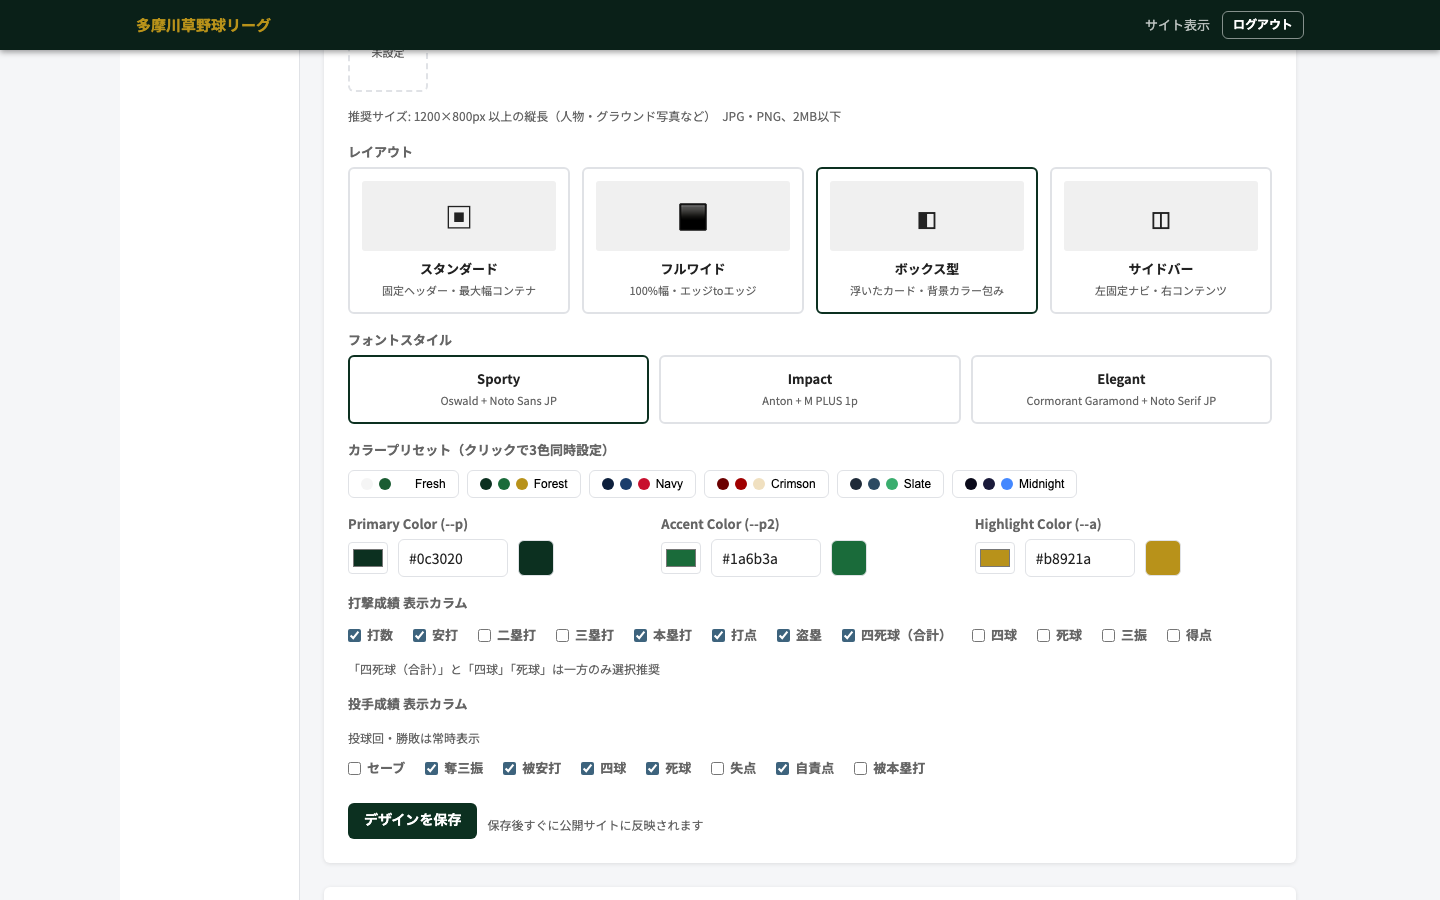
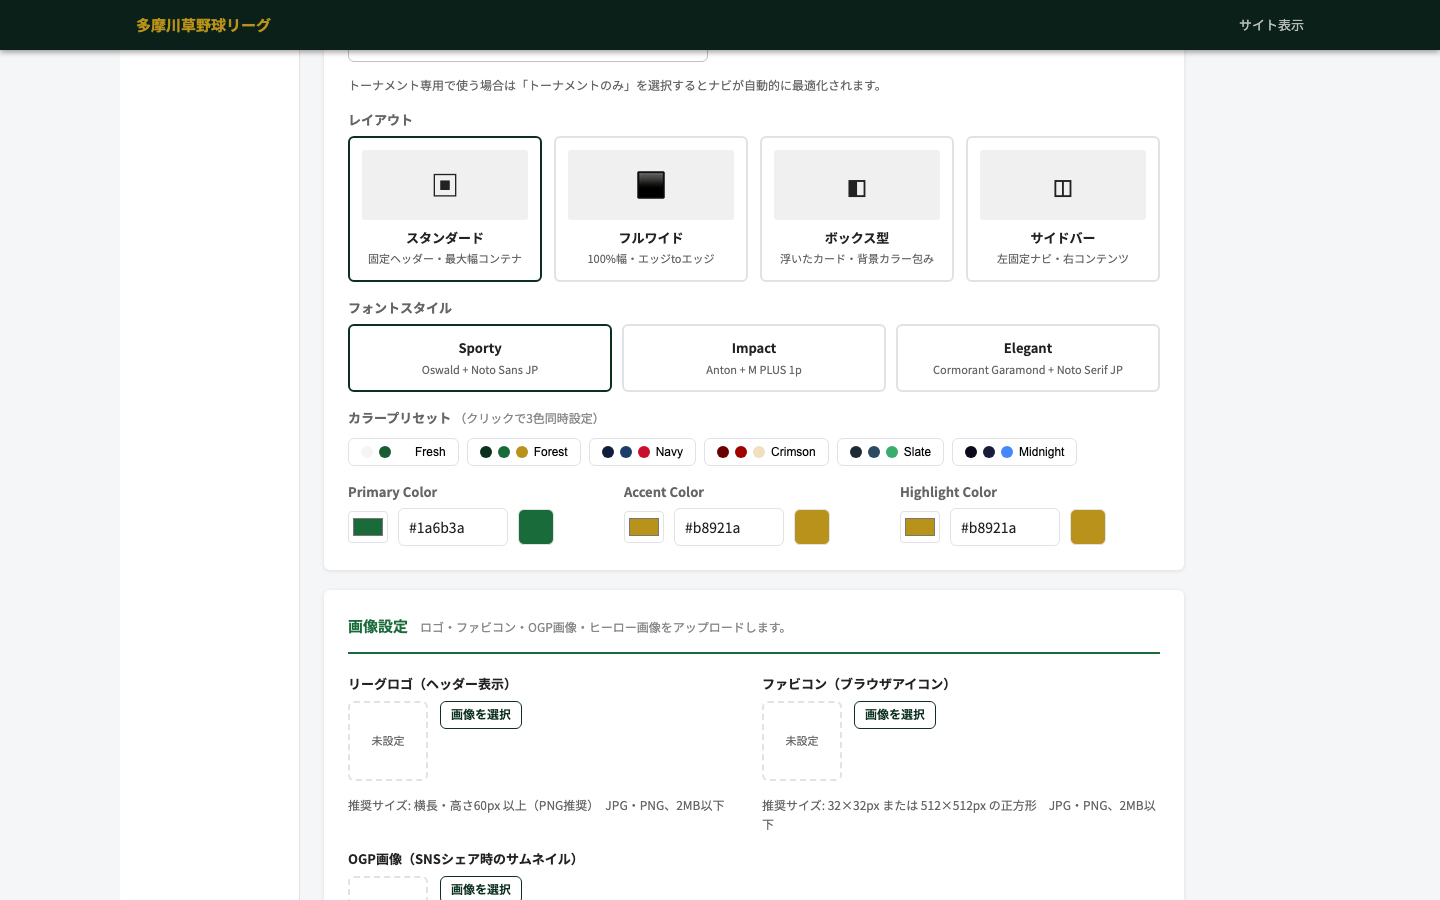
LP: 管理画面の画像を今の版で撮り直し、スコアブック読み取りを紹介し、管理画面デモへのボタンを足す（#3）
Claude-Session: https://claude.ai/code/session_017vj4b9NFDcYMHpxuCKhFnX

diff --git a/src/App.tsx b/src/App.tsx
@@ -225,7 +225,7 @@ function TournamentShowcase() {
 function AdminShowcase() {
   const callouts = [
     { ic: 'ball',      title: 'スコアを入力するだけ', desc: '打数・安打・打点を入力すれば、個人成績ランキングも順位表も自動で更新されます。' },
-    { ic: 'calendar',  title: '日程は簡単入力',       desc: '試合日程はフォームから数クリックで登録・変更。変更はすぐに公式サイトへ反映されます。' },
+    { ic: 'spark',     title: 'スコアブックを撮るだけ', desc: '紙のスコアブックを写真で撮ると、スコアと打撃・投手成績を読み取って下書きにします。確かめて保存するだけです。' },
     { ic: 'megaphone', title: 'お知らせを一斉発信',   desc: 'ルール変更や雨天中止など、リーグからの連絡を選手・ご家族にウェブで一斉発信できます。' },
     { ic: 'settings',  title: 'チーム管理者へ権限委譲', desc: '各チームの担当者に管理者権限を招待で付与。試合結果の入力を分担できます。リーグ管理者が承認するまで公開されません。' },
   ]
@@ -251,6 +251,12 @@ function AdminShowcase() {
               <div><h4>{c.title}</h4><p>{c.desc}</p></div>
             </div>
           ))}
+        </div>
+        <div style={{ textAlign: 'center', marginTop: 32 }}>
+          <a className="btn btn-ghost btn-lg" href="https://demo.leaguru.jp/admin/login" target="_blank" rel="noopener noreferrer">
+            <Icon name="play" size={14} /> 管理画面デモを試す
+          </a>
+          <p style={{ fontSize: 13, color: 'var(--muted, #6b7280)', marginTop: 8 }}>登録不要。デモ用のリーグで、実際の管理画面を見られます。</p>
         </div>
       </div>
     </section>
